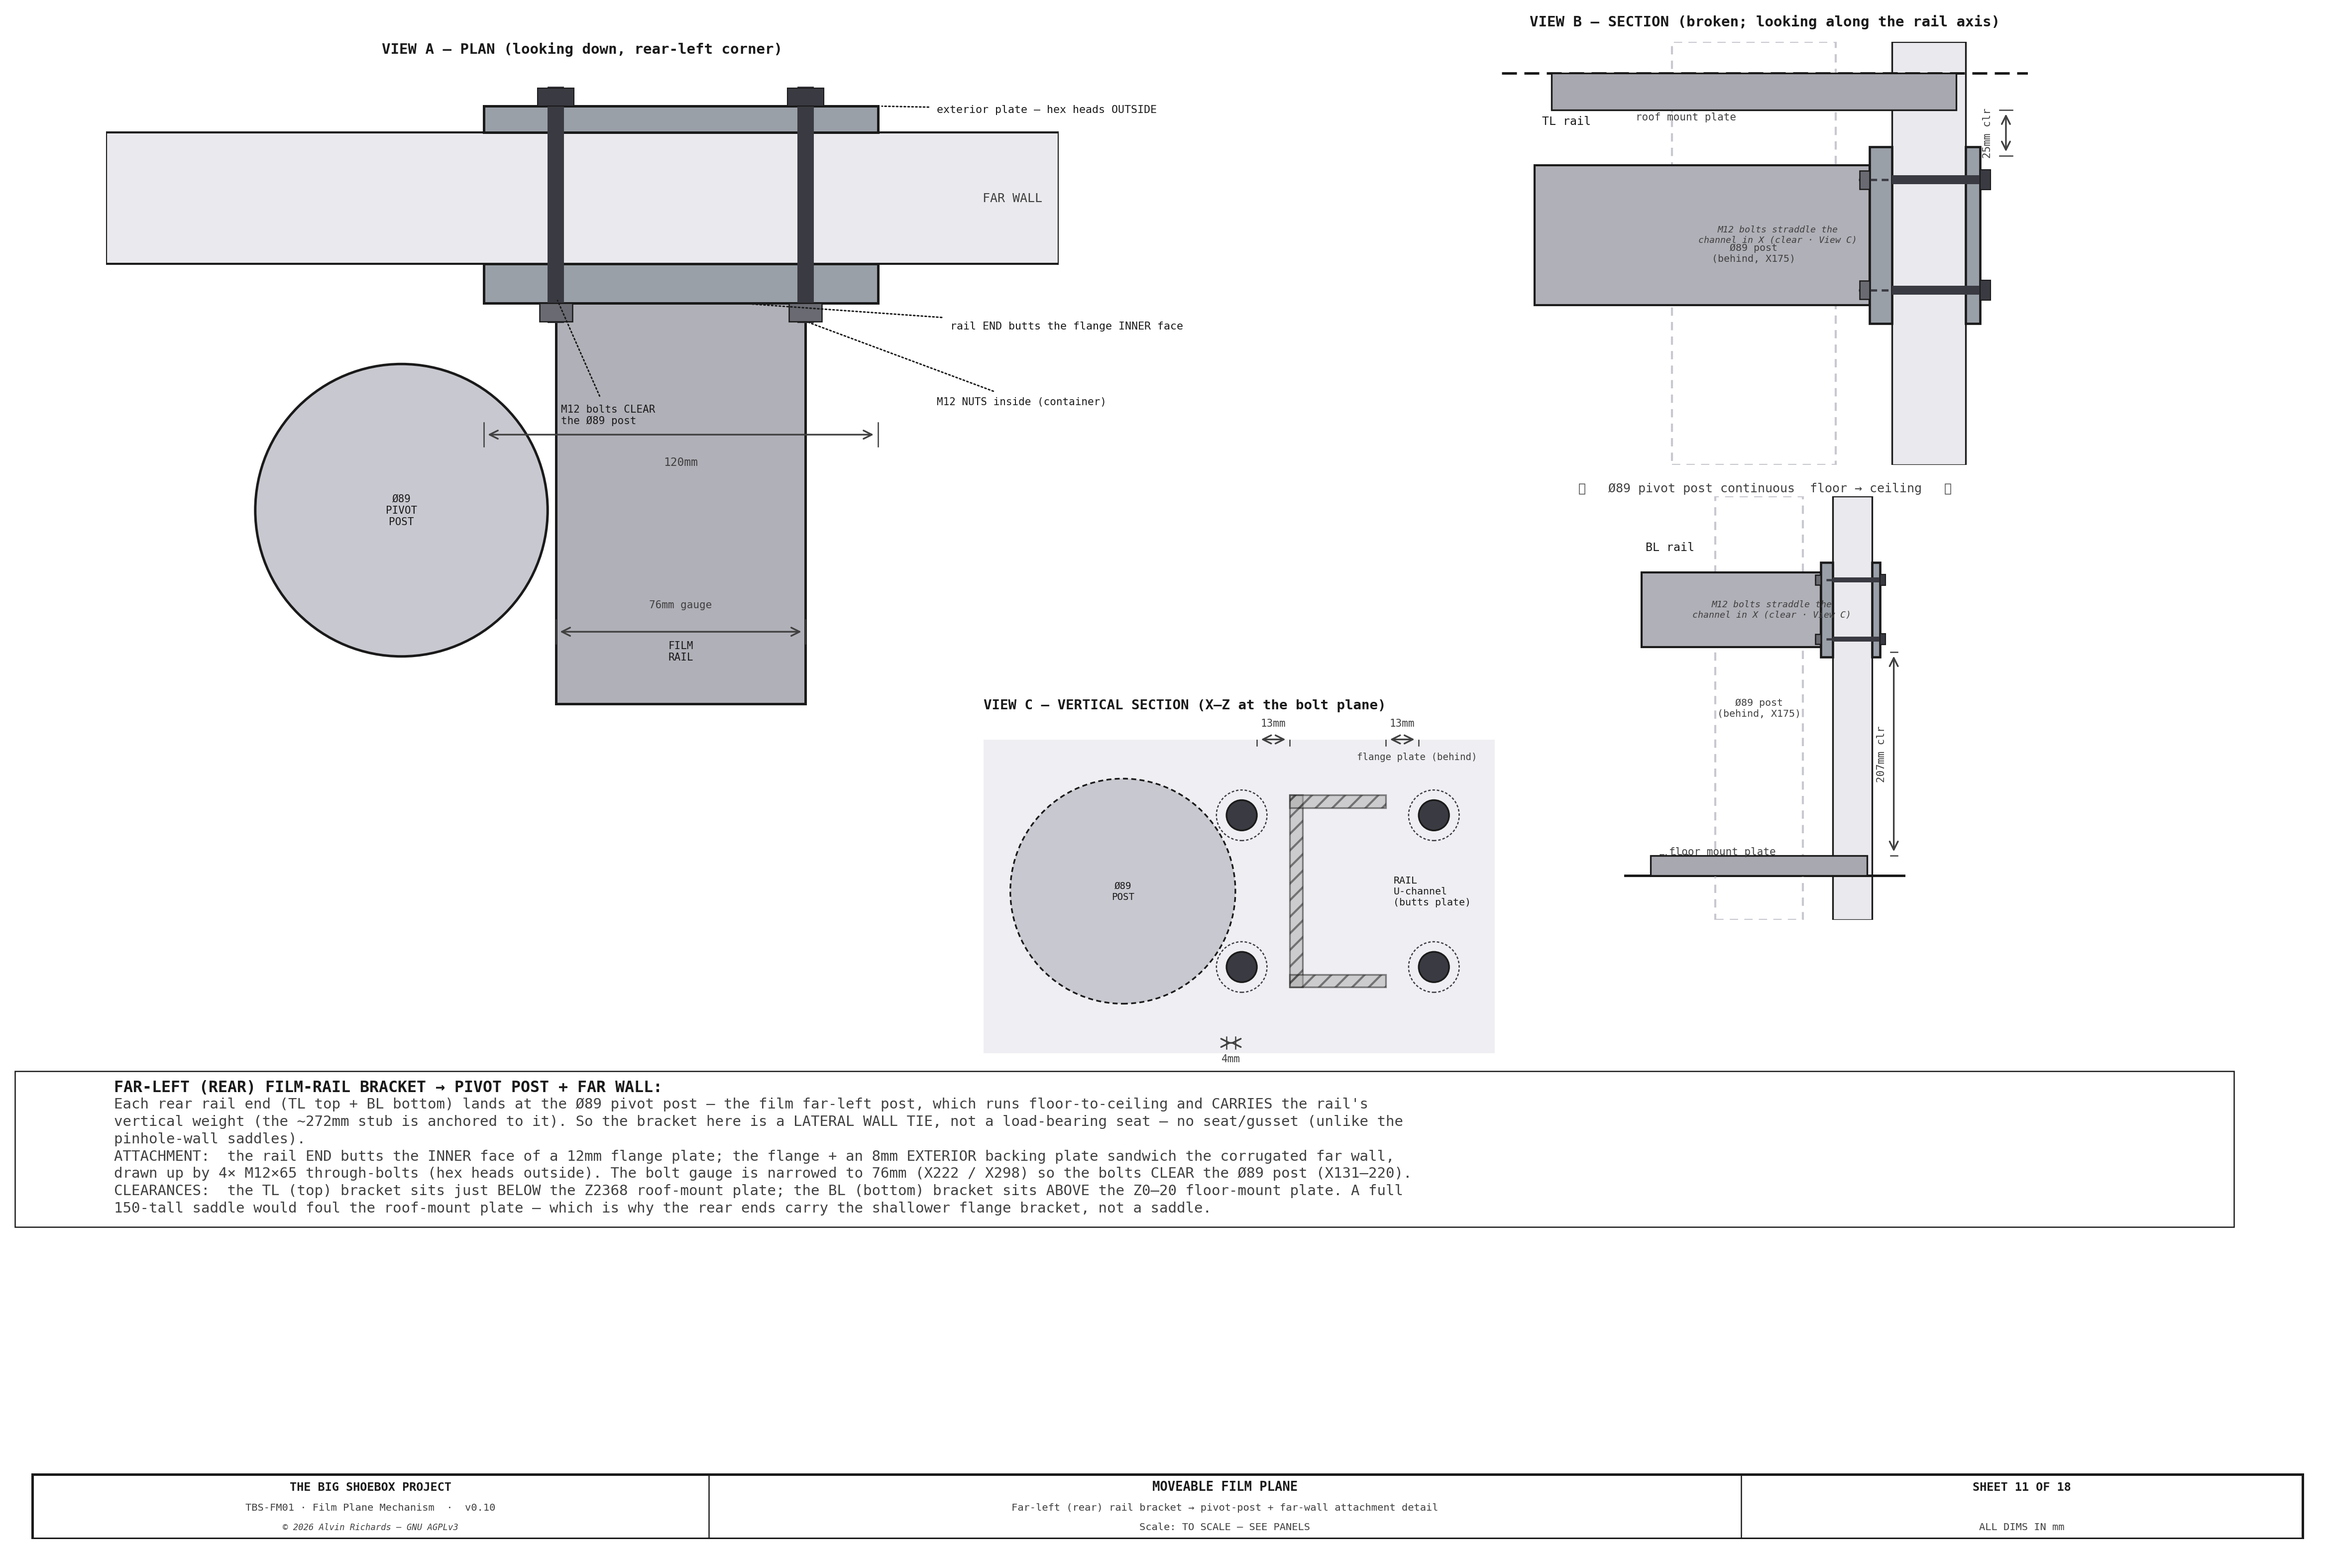
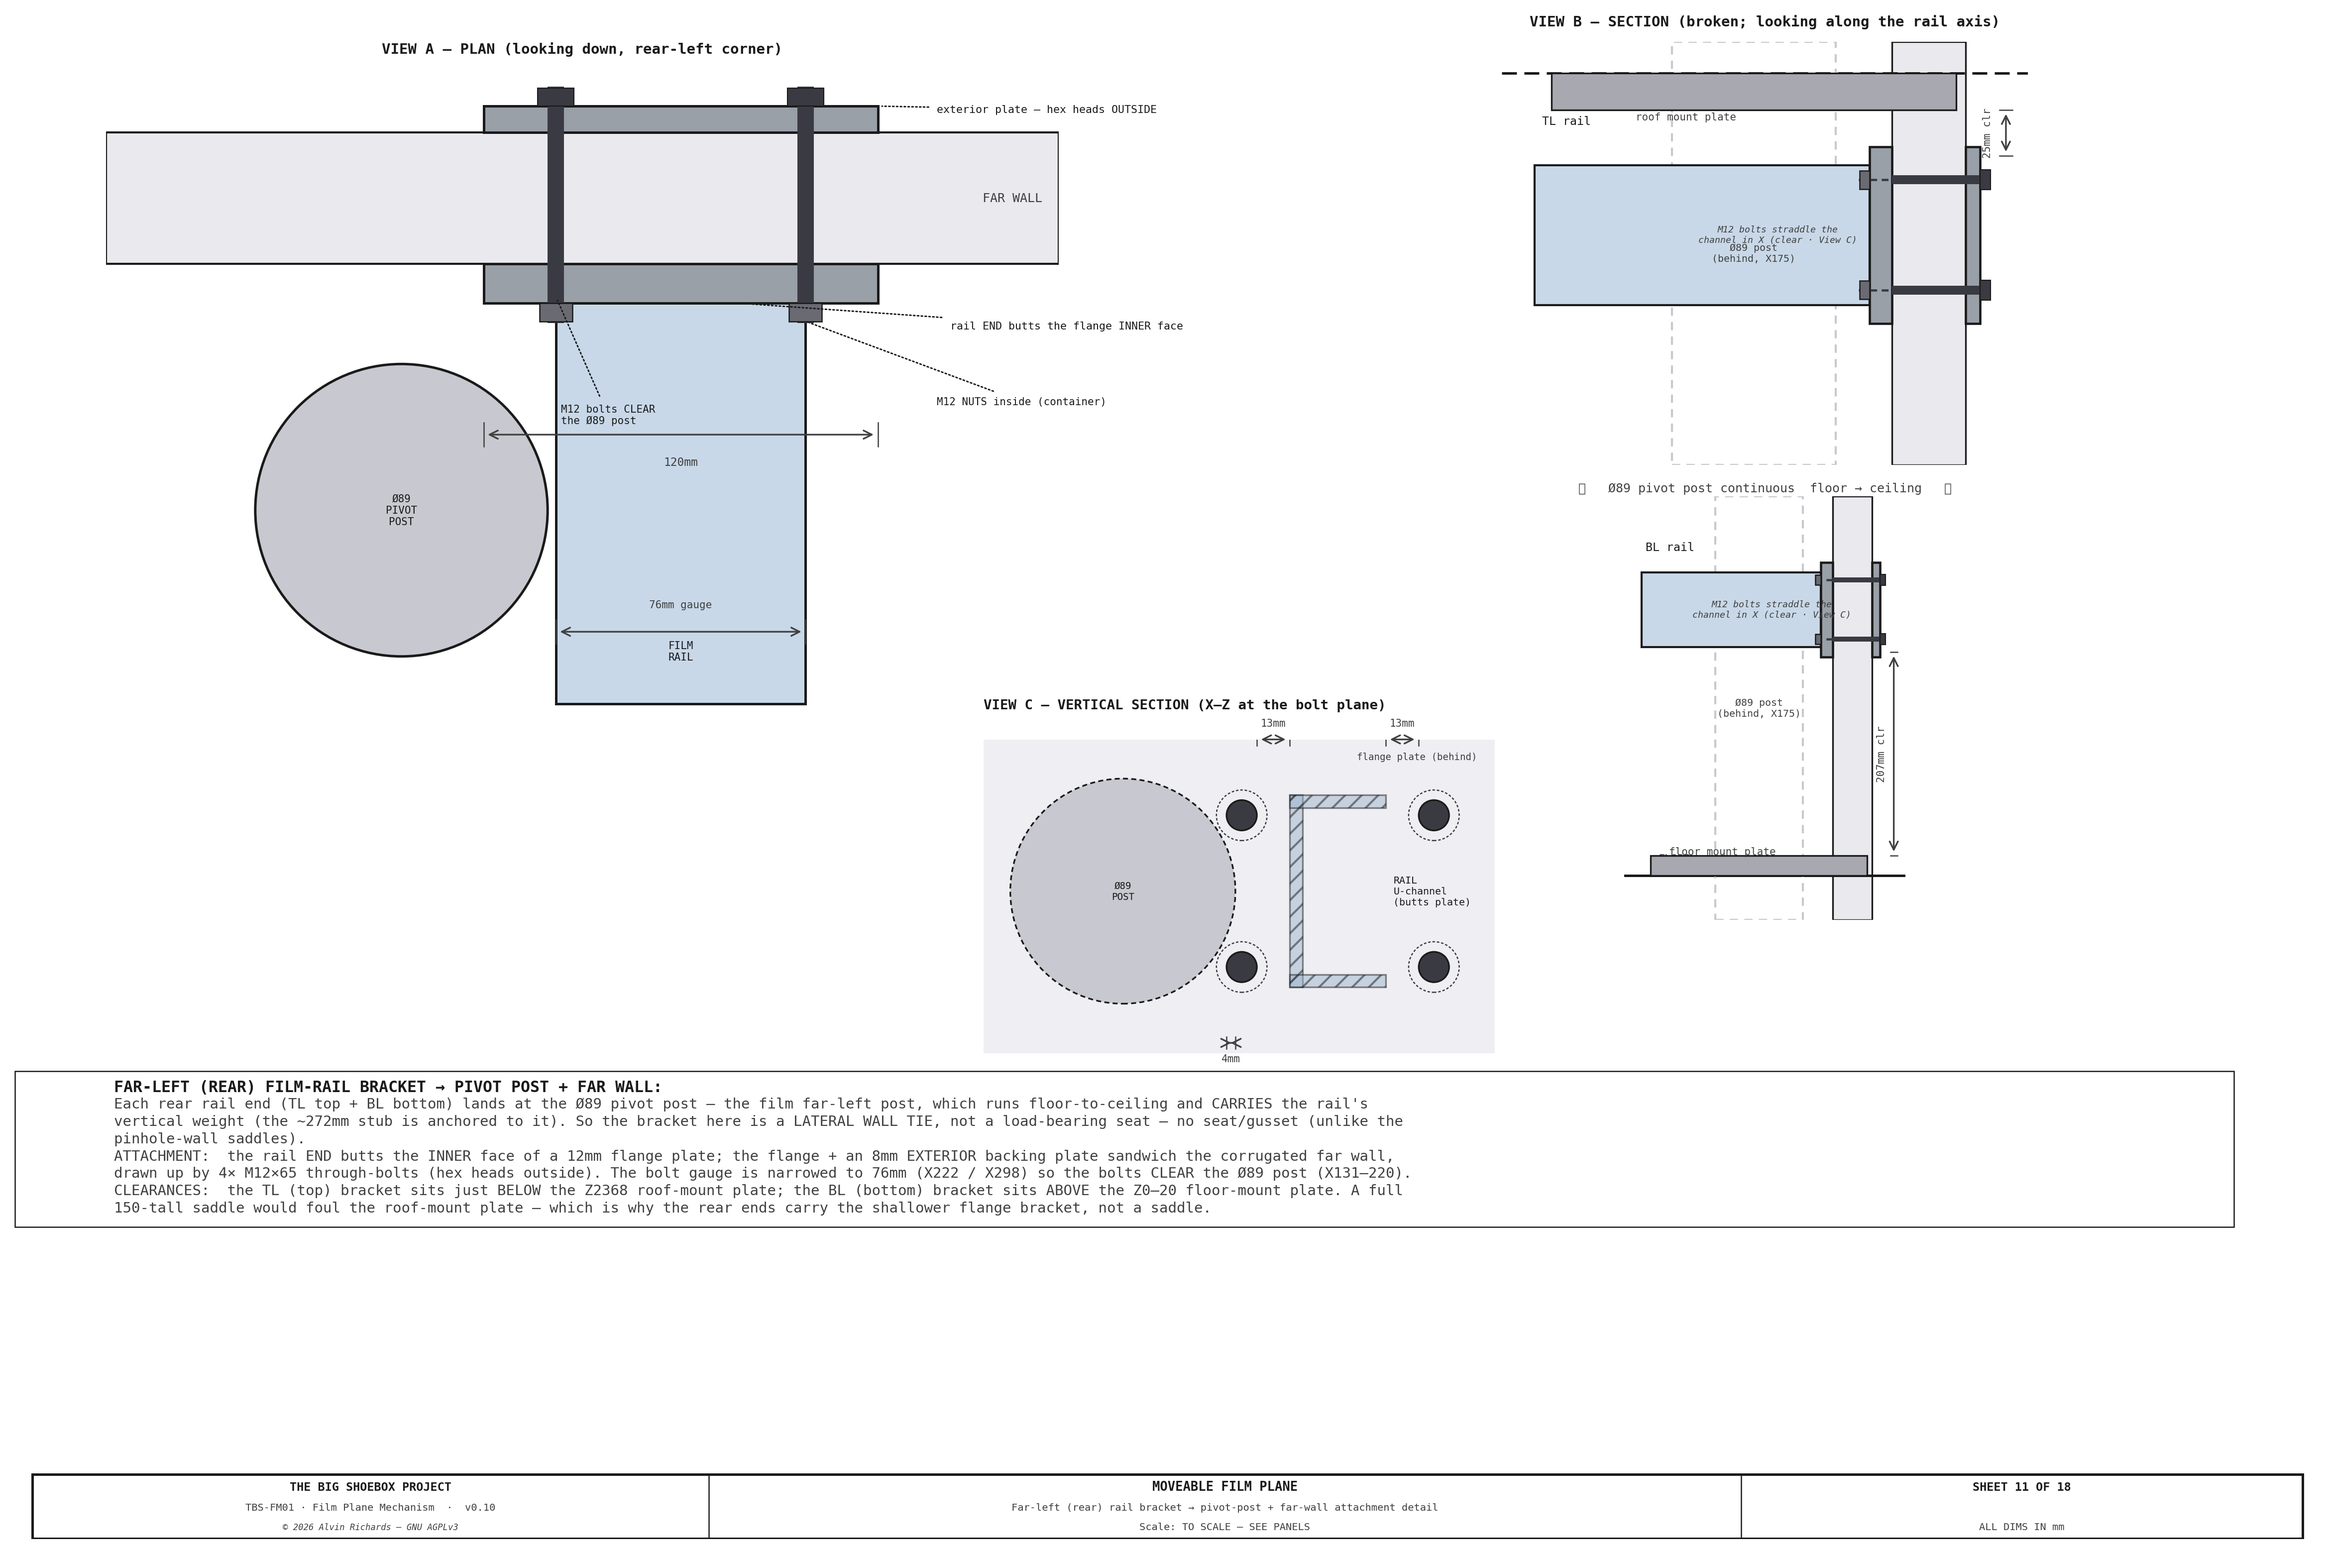
Film-plane: aluminum-color standardization — depth rail reads aluminum, not steel-grey
The 6061 Al U-channel depth rail was drawn steel-grey (C_STEEL) on the mechanism
cross-sections (Sheet 3 elevation + Section A-A/B-B, Sheet 11 Views A/B/C) while
Sheets 13/18 already used the aluminum tint. Standardize the rail to STRUCT2
(aluminum) everywhere — solid fills + the _uchan_hatch section-cut base + the
Sheet 11 View C hatch — so the Al rail reads distinct from the grey steel parts
(pivot post, seat, flange plates, 304 corner plate). Steel parts stay grey.

Changed region(s): [[0.2184, 0.1864, 0.3432, 0.466], [0.6553, 0.0932, 0.8113, 0.2175], [0.6865, 0.3418, 0.7801, 0.435]]

diff --git a/src/generators/generate_film_plane_mechanism.py b/src/generators/generate_film_plane_mechanism.py
@@ -707,7 +707,7 @@ def view_a(ax):
     ax.set_xlim(-60, 470); ax.set_ylim(110, 560); ax.set_aspect("equal"); ax.axis("off")
 
     # depth RAIL at the TOP — 3×1.5 6061 Al U-CHANNEL, web-vertical, runs in Yd (BEHIND the carriage plate)
-    ax.add_patch(plt.Rectangle((-30, 232), 420, 76, fc=C_STEEL, ec=OUT, lw=1.0, zorder=3))
+    ax.add_patch(plt.Rectangle((-30, 232), 420, 76, fc=STRUCT2, ec=OUT, lw=1.0, zorder=3))   # 6061 Al depth rail — aluminum tint
     ax.plot([-30, 390], [237, 237], color=OUT, lw=0.8, zorder=4)                     # bottom flange (running surface)
     ax.plot([-30, 390], [303, 303], color=OUT, lw=0.8, zorder=4)                     # top flange
     for bx in (-20, 380):                                                            # zigzag break symbols (rail continues in Yd)
@@ -834,8 +834,8 @@ def view_b(ax):
 
 
 def _uchan_hatch(ax, x, y, w, h, z=6):
-    _rect(ax, x, y, w, h, C_STEEL, z=z)
-    hatch_rect(ax, x, y, w, h, color="#8A93A0", hatch="///", lw=0.0)
+    _rect(ax, x, y, w, h, STRUCT2, z=z)                                  # 6061 Al U-channel — aluminum tint (not steel grey)
+    hatch_rect(ax, x, y, w, h, color="#9DB4CC", hatch="///", lw=0.0)
 
 
 def section_aa(ax):
@@ -2093,7 +2093,7 @@ def sheet11():
     axA.text(370, C_WID + WALL_T / 2, "FAR WALL", fontsize=6, ha="right", va="center", color=DIM, **FONT, zorder=7)
     axA.add_patch(Circle((PIVOT_X, PIVOT_YD), PIVOT_POST_OD / 2, fc=C_POST, ec=OUT, lw=1.2, zorder=3))
     axA.text(PIVOT_X, PIVOT_YD, f"Ø{PIVOT_POST_OD:.0f}\nPIVOT\nPOST", fontsize=5, ha="center", va="center", color=OUT, **FONT, zorder=6)
-    axA.add_patch(Rectangle((cx - web / 2, 2228), web, (C_WID - fl_t) - 2228, fc=C_STEEL, ec=OUT, lw=1.2, zorder=3))
+    axA.add_patch(Rectangle((cx - web / 2, 2228), web, (C_WID - fl_t) - 2228, fc=STRUCT2, ec=OUT, lw=1.2, zorder=3))   # 6061 Al film rail — aluminum tint
     axA.text(cx, 2244, "FILM\nRAIL", fontsize=5, ha="center", va="center", color=OUT, **FONT, zorder=6)
     axA.add_patch(Rectangle((cx - bw / 2, C_WID - fl_t), bw, fl_t, fc=C_PL, ec=OUT, lw=1.2, zorder=4))       # flange (interior)
     axA.add_patch(Rectangle((cx - bw / 2, C_WID + WALL_T), bw, ext_t, fc=C_PL, ec=OUT, lw=1.2, zorder=4))    # exterior plate
@@ -2121,7 +2121,7 @@ def sheet11():
         ax.plot([2150, 2436], [edge_z, edge_z], color=OUT, lw=1.2, ls=(0, (6, 3)) if edge_lbl == "CEILING" else "-")
         ax.text(2185, edge_z + (-18 if edge_lbl == "CEILING" else 14), edge_lbl, fontsize=5.2, ha="left", color=DIM, **FONT)
         fz0, fh = botf - 10, web + 20
-        ax.add_patch(Rectangle((2168, botf), (C_WID - fl_t) - 2168, web, fc=C_STEEL, ec=OUT, lw=1.0, zorder=5))   # rail (broken off left)
+        ax.add_patch(Rectangle((2168, botf), (C_WID - fl_t) - 2168, web, fc=STRUCT2, ec=OUT, lw=1.0, zorder=5))   # 6061 Al rail — aluminum tint (broken off left)
         ax.add_patch(Rectangle((C_WID - fl_t, fz0), fl_t, fh, fc=C_PL, ec=OUT, lw=1.1, zorder=6))                 # flange (interior)
         ax.add_patch(Rectangle((C_WID + WALL_T, fz0), ext_t, fh, fc=C_PL, ec=OUT, lw=1.1, zorder=6))             # exterior plate
         # The M12 bolts run in Yd through the flange plate + wall; at X222/X298 they STRADDLE the channel
@@ -2151,9 +2151,9 @@ def sheet11():
     axC.add_patch(Rectangle((120, rz0 - 40), 202, (rz1 + 40) - (rz0 - 40), fc="#EFEFF3", ec="none", zorder=1))  # flange plate behind (ghost band)
     axC.text(315, rz1 + 14, "flange plate (behind)", fontsize=4.6, ha="right", color=DIM, **FONT, zorder=2)
     # rail U-channel cross-section (web at back, flanges open +X toward film)
-    hatch_rect(axC, wx0, rz0, wx1 - wx0, rz1 - rz0)              # web
-    hatch_rect(axC, wx0, rz1 - 5, fx1 - wx0, 5)                  # top flange
-    hatch_rect(axC, wx0, rz0, fx1 - wx0, 5)                      # bottom flange
+    hatch_rect(axC, wx0, rz0, wx1 - wx0, rz1 - rz0, color="#9DB4CC")   # web — 6061 Al aluminum tint
+    hatch_rect(axC, wx0, rz1 - 5, fx1 - wx0, 5, color="#9DB4CC")       # top flange
+    hatch_rect(axC, wx0, rz0, fx1 - wx0, 5, color="#9DB4CC")           # bottom flange
     axC.text(fx1 + 3, (rz0 + rz1) / 2, "RAIL\nU-channel\n(butts plate)", fontsize=4.8, ha="left", va="center", color=OUT, **FONT, zorder=6)
     # Ø89 pivot post (ghost, to the −X side)
     axC.add_patch(Circle((PIVOT_X, (rz0 + rz1) / 2), PIVOT_POST_OD / 2, fc=C_POST, ec=OUT, lw=0.8, ls=(0, (3, 2)), zorder=2))

diff --git a/RELEASE.md b/RELEASE.md
@@ -73,6 +73,9 @@ file** — a release must not ship without a changelog entry:
   hidden behind the now-white plate, which read as holes "moving"); and stripped the muslin-clamp sheet to its
   spec notes — dropped the redundant section panel and **relocated the perimeter clamp-layout to a standalone
   image in the Operating Manual §2.4** (new `film-plane-muslin-clamp-layout.png`).
+  Aluminum-color standardization: the 6061 Al U-channel depth rail was drawn steel-grey on the mechanism
+  cross-sections (Sheets 3 + 11) — now the aluminum tint (STRUCT2) everywhere it appears, so the Al rail reads
+  distinct from the grey steel parts (post, seat, flange, corner plate), consistent with Sheets 13/18.
 - **Fastener standardization — inventoried, decided, first cut.** Compiled every bolt/screw/nut/washer/rivet
   from `parts.py` (incl. threads bundled in structural/labor lots) into a design-for-assembly review
   (`fastener-standardization.md`): metric families targeted 6→4 (M5 + M10 to be eliminated), lengths ~12→~7.
